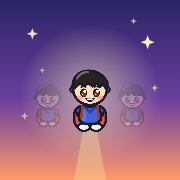
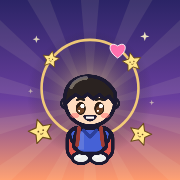
앱 아이콘 새 디자인: 노을 하늘 · 햇살 · 금빛 후광 속 주인공 · 웃는 별 에코 · 하트
- 후보 A(꾸민 지금 아이콘)·B(얼굴 크게)·E(별 동료)를 섞은 1번 시안
- 192·512·안드로이드 모양 맞춤용(안쪽 82%로, 동그라미로 잘려도 안 잘림)·아이폰용 4종 다시 만듦 (tools/make-icons.js)

Claude-Session: https://claude.ai/code/session_01AP1tCJhRXk6VJcG7GJWrtc

diff --git a/tools/make-icons.js b/tools/make-icons.js
@@ -1,4 +1,5 @@
-/* Echo Rush — 앱 아이콘 만들기 (게임 그림 그대로: 노을 하늘 · 주인공 · 뒤따르는 에코)
+/* Echo Rush — 앱 아이콘 만들기 (게임 그림 그대로)
+ * 디자인: 노을 하늘 + 퍼지는 햇살 · 금빛 후광 고리 안의 주인공(상반신 크게) · 둘레를 도는 웃는 별 에코 · 분홍 하트
  * 실행: node tools/make-icons.js  →  icons/icon-192.png · icon-512.png · maskable-512.png · apple-touch-icon.png
  * 주인공 그림이 바뀌면 다시 실행한다. (Playwright 필요) */
 const { chromium } = require('playwright');
@@ -8,29 +9,35 @@ const ROOT = path.join(__dirname, '..'), OUT = path.join(ROOT, 'icons');
   const b = await chromium.launch();
   const p = await (await b.newContext({ viewport: { width: 600, height: 600 } })).newPage();
   await p.addInitScript(() => { window.ART_SPRITE_SCALE = 12; });   // 크게 그려도 흐리지 않게 고해상도 스프라이트
-  const errs = []; p.on('pageerror', e => errs.push(e.message));
+  const errs = []; p.on('pageerror', (e) => errs.push(e.message));
   await p.goto('file://' + path.join(ROOT, 'index.html')); await p.waitForTimeout(500);
-  const make = async (size, mask) => p.evaluate(([size, mask]) => {
-    const c = document.createElement('canvas'); c.width = size; c.height = size; const g = c.getContext('2d');
-    const k = size / 512;
-    // 배경: 메인 화면처럼 노을 하늘 (마스크용은 꽉 채움, 일반은 둥근 네모)
-    const r = mask ? 0 : 112 * k;
-    g.save(); g.beginPath(); g.roundRect(0, 0, size, size, r); g.clip();
-    const gr = g.createLinearGradient(0, 0, 0, size); gr.addColorStop(0, '#2b2466'); gr.addColorStop(0.55, '#6a3f9e'); gr.addColorStop(1, '#ff9a6b'); g.fillStyle = gr; g.fillRect(0, 0, size, size);
-    // 반짝이는 별
-    const star = (x, y, s, a) => { g.save(); g.translate(x * k, y * k); g.globalAlpha = a; g.fillStyle = '#fff6c8'; g.beginPath(); for (let i = 0; i < 8; i++) { const rr = i % 2 ? s * 0.38 : s; const an = -Math.PI / 2 + i * Math.PI / 4; g.lineTo(Math.cos(an) * rr * k, Math.sin(an) * rr * k); } g.closePath(); g.fill(); g.restore(); };
-    for (const [x, y, s, a] of [[92, 96, 16, .9], [420, 120, 20, .95], [380, 60, 9, .7], [120, 200, 8, .6], [440, 250, 10, .7], [70, 330, 11, .6]]) star(x, y, s, a);
-    // 빛나는 길 (메인 화면의 길)
-    g.fillStyle = 'rgba(255,230,160,.35)'; g.beginPath(); g.moveTo(210 * k, size); g.lineTo(250 * k, 300 * k); g.lineTo(262 * k, 300 * k); g.lineTo(302 * k, size); g.closePath(); g.fill();
-    // 뒤를 따르는 에코 (반투명)
-    const hs = (mask ? 6.2 : 7.4) * k, cx = 256 * k, cy = (mask ? 270 : 262) * k;
-    g.globalAlpha = 0.28; Art.drawKidPreview(g, cx - 120 * k, cy + 18 * k, '🙂', 0, hs * 0.7); Art.drawKidPreview(g, cx + 120 * k, cy + 18 * k, '🙂', 0, hs * 0.7); g.globalAlpha = 1;
-    // 은은한 빛 + 주인공
-    const gl = g.createRadialGradient(cx, cy, 10 * k, cx, cy, 200 * k); gl.addColorStop(0, 'rgba(255,240,180,.55)'); gl.addColorStop(1, 'rgba(255,240,180,0)'); g.fillStyle = gl; g.fillRect(0, 0, size, size);
-    Art.drawKidPreview(g, cx, cy, '🙂', 0, hs);
+  const make = (size, mask) => p.evaluate(([size, mask]) => {
+    const c = document.createElement('canvas'); c.width = c.height = size; const g = c.getContext('2d');
+    const S = 512; g.scale(size / S, size / S);
+    g.save(); g.beginPath(); g.roundRect(0, 0, S, S, mask ? 0 : 112); g.clip();   // 마스크용·아이폰용은 꽉 채움 (기기가 모양을 잘라 씀)
+    // 배경: 노을 하늘 + 햇살 (가장자리까지)
+    const gr = g.createLinearGradient(0, 0, 0, S); gr.addColorStop(0, '#2b2466'); gr.addColorStop(0.55, '#6a3f9e'); gr.addColorStop(1, '#ff9a6b'); g.fillStyle = gr; g.fillRect(0, 0, S, S);
+    for (let i = 0; i < 14; i++) { g.save(); g.translate(256, 300); g.rotate(i * Math.PI / 7); g.fillStyle = 'rgba(255,240,200,.09)'; g.beginPath(); g.moveTo(0, 0); g.lineTo(-38, -440); g.lineTo(38, -440); g.fill(); g.restore(); }
+    // 마스크용: 안쪽 그림을 82%로 (동그라미로 잘려도 주인공·별이 안 잘리게)
+    if (mask) { g.translate(256, 256); g.scale(0.82, 0.82); g.translate(-256, -256); }
+    const sparkle = (x, y, s, a) => { g.save(); g.translate(x, y); g.globalAlpha = a; g.fillStyle = '#fff6c8'; g.beginPath(); for (let i = 0; i < 8; i++) { const rr = i % 2 ? s * 0.36 : s, an = -Math.PI / 2 + i * Math.PI / 4; g.lineTo(Math.cos(an) * rr, Math.sin(an) * rr); } g.closePath(); g.fill(); g.restore(); };
+    const glow = (x, y, r, col) => { const gl = g.createRadialGradient(x, y, 4, x, y, r); gl.addColorStop(0, col); gl.addColorStop(1, 'rgba(0,0,0,0)'); g.fillStyle = gl; g.fillRect(-100, -100, S + 200, S + 200); };
+    const star5 = (x, y, r, rot) => {   // 웃는 별 에코
+      g.save(); g.translate(x, y); g.rotate(rot); g.beginPath(); for (let i = 0; i < 10; i++) { const rr = i % 2 ? r * 0.48 : r, an = -Math.PI / 2 + i * Math.PI / 5; g.lineTo(Math.cos(an) * rr, Math.sin(an) * rr); } g.closePath();
+      g.lineJoin = 'round'; g.fillStyle = '#ffe58a'; g.fill(); g.lineWidth = r * 0.09; g.strokeStyle = '#6a4a1a'; g.stroke();
+      g.fillStyle = '#6a4a1a'; g.beginPath(); g.arc(-r * 0.2, -r * 0.05, r * 0.07, 0, 7); g.arc(r * 0.2, -r * 0.05, r * 0.07, 0, 7); g.fill();
+      g.lineWidth = r * 0.06; g.beginPath(); g.arc(0, r * 0.08, r * 0.14, 0.15 * Math.PI, 0.85 * Math.PI); g.stroke(); g.restore();
+    };
+    for (const [x, y, s, a] of [[70, 80, 13, .8], [446, 70, 16, .9], [470, 300, 9, .6], [50, 260, 9, .6]]) sparkle(x, y, s, a);
+    glow(256, 270, 220, 'rgba(255,225,140,.7)');
+    g.lineWidth = 9; g.strokeStyle = 'rgba(255,215,120,.9)'; g.beginPath(); g.arc(256, 250, 168, 0, 7); g.stroke();   // 금빛 후광
+    Art.drawKidPreview(g, 256, 330, '🙂', 0, 11);                                                                      // 주인공 (상반신 크게)
+    for (const [x, y, r, rot] of [[86, 400, 44, -.3], [430, 410, 40, .3], [120, 150, 30, .2], [402, 160, 34, -.2]]) star5(x, y, r, rot);
+    g.save(); g.translate(352, 120); g.scale(1.4, 1.4); g.beginPath(); g.moveTo(0, 18); g.bezierCurveTo(-30, -2, -20, -26, 0, -12); g.bezierCurveTo(20, -26, 30, -2, 0, 18); g.fillStyle = '#ff6fae'; g.fill(); g.lineWidth = 3 / 1.4; g.strokeStyle = '#fff'; g.stroke(); g.restore();
     g.restore();
     return c.toDataURL('image/png').split(',')[1];
   }, [size, mask]);
-  for (const [name, size, mask] of [['icon-512.png', 512, false], ['icon-192.png', 192, false], ['maskable-512.png', 512, true], ['apple-touch-icon.png', 180, true]]) fs.writeFileSync(`${OUT}/${name}`, Buffer.from(await make(size, mask), 'base64'));
-  console.log(errs); await b.close();
+  for (const [name, size, mask] of [['icon-512.png', 512, false], ['icon-192.png', 192, false], ['maskable-512.png', 512, true], ['apple-touch-icon.png', 180, true]]) fs.writeFileSync(path.join(OUT, name), Buffer.from(await make(size, mask), 'base64'));
+  console.log(errs.length ? errs : 'icons written');
+  await b.close();
 })();
